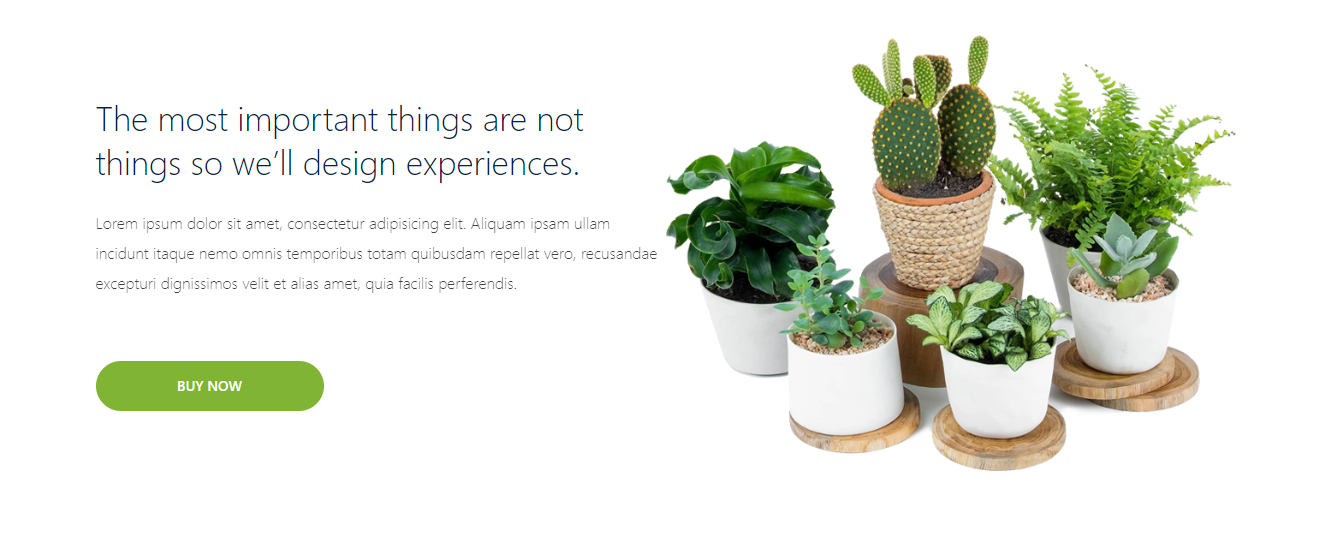
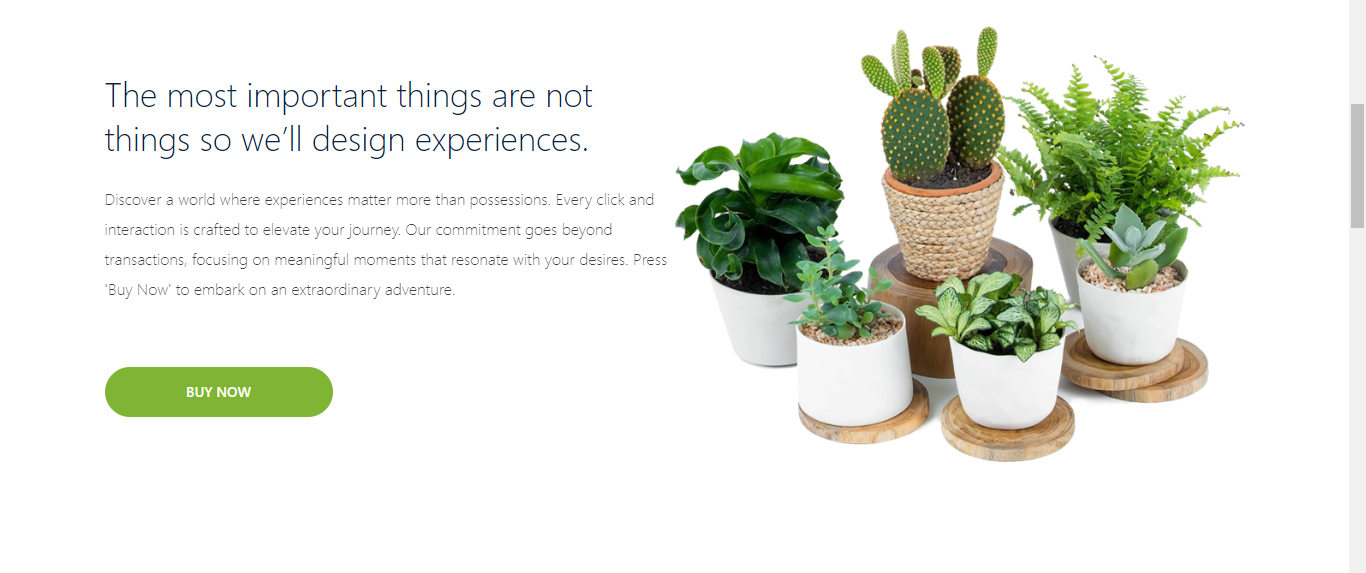
Update README.md and Updated About Section

Changed region(s): [[0.0615, 0.0295, 0.9227, 0.884], [0.0615, 0.6188, 0.2461, 0.7661], [0.9842, 0.1768, 1.0, 0.4125]]

diff --git a/src/component/HomePage/About.tsx b/src/component/HomePage/About.tsx
@@ -212,11 +212,13 @@ export function About() {
                   experiences.
                 </Title>
 
-                <Text className={classes.description} >
-                  Lorem ipsum dolor sit amet, consectetur adipisicing elit.
-                  Aliquam ipsam ullam incidunt itaque nemo omnis temporibus
-                  totam quibusdam repellat vero, recusandae excepturi
-                  dignissimos velit et alias amet, quia facilis perferendis.
+                <Text className={classes.description}>
+                  Discover a world where experiences matter more than
+                  possessions. Every click and interaction is crafted to elevate
+                  your journey. Our commitment goes beyond transactions,
+                  focusing on meaningful moments that resonate with your
+                  desires. Press 'Buy Now' to embark on an extraordinary
+                  adventure.
                 </Text>
                 <Button
                   className="plantButton"
